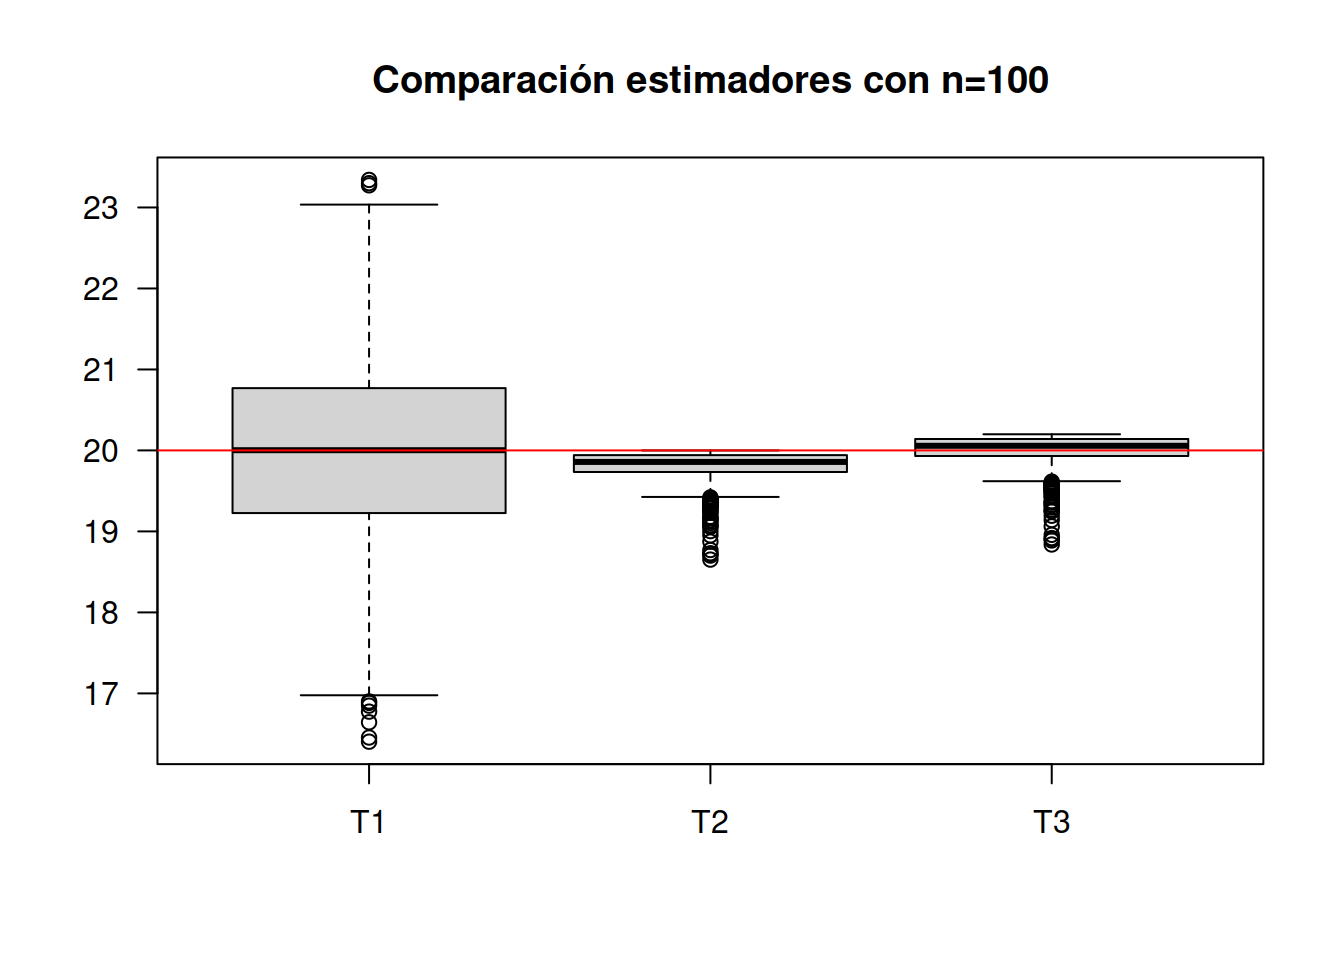
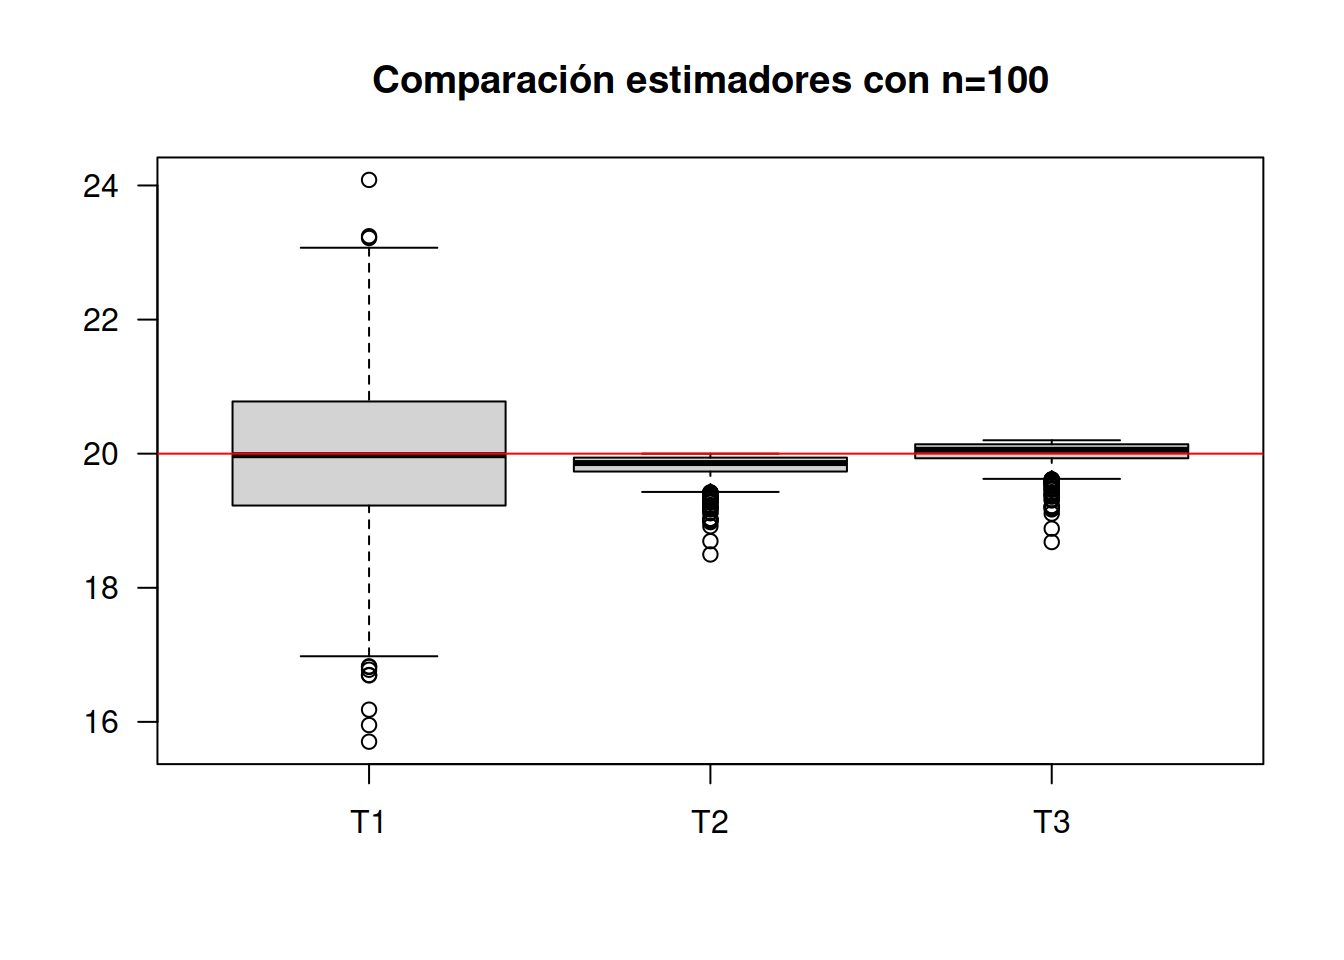
ajustes varios

diff --git a/docs/recurso336.html b/docs/recurso336.html
@@ -367,7 +367,139 @@ $(document).ready(function () {
 </div>
 
 
+<div id="prueba-de-signos" class="section level1">
+<h1><strong>Prueba de signos</strong></h1>
+<pre class="r"><code># install.packages(&quot;BSDA&quot;)
+library(BSDA)
 
+# Ho: Me &lt;= 15  
+# Ha: Me &gt;  15
+x=c(16, 15, 12, 17, 18, 14, 16, 14, 16, 17, 19, 16, 14, 21, 20, 16, 16, 16)
+#   +       -   +    +   -   +  -    +   +  +    +   -  +    +  +    +   +
+SIGN.test(x, md = 15,alternative = &quot;greater&quot;)</code></pre>
+<pre><code>
+    One-sample Sign-Test
+
+data:  x
+s = 13, p-value = 0.02452
+alternative hypothesis: true median is greater than 15
+95 percent confidence interval:
+  16 Inf
+sample estimates:
+median of x 
+         16 
+
+Achieved and Interpolated Confidence Intervals: 
+
+                  Conf.Level L.E.pt U.E.pt
+Lower Achieved CI     0.8811     16    Inf
+Interpolated CI       0.9500     16    Inf
+Upper Achieved CI     0.9519     16    Inf</code></pre>
+</div>
+<div id="prueba-de-rachas" class="section level1">
+<h1>Prueba de rachas</h1>
+<p>Ho : muestra aleatorio Ha: muestra no aleratoria</p>
+<pre class="r"><code>library(&quot;randtests&quot;)
+
+x=c(16, 15, 12, 17, 18, 14, 16, 14, 16, 17, 19, 16, 14, 21, 20, 16, 16, 16)
+runs.test(x)</code></pre>
+<pre><code>
+    Runs Test
+
+data:  x
+statistic = -0.29161, runs = 6, n1 = 6, n2 = 5, n = 11, p-value =
+0.7706
+alternative hypothesis: nonrandomness</code></pre>
+<p>Como el valor-p &gt; alpha (0.05), entonces no rechazamos Ho.
+Asumimos que la muestra es aleatoria.</p>
+</div>
+<div id="prueba-chicuadrado-de-independencia" class="section level1">
+<h1><strong>Prueba chicuadrado de independencia</strong></h1>
+<table>
+<thead>
+<tr class="header">
+<th align="left"></th>
+<th align="right">Urbano</th>
+<th align="right">Rural</th>
+<th align="right">Total</th>
+</tr>
+</thead>
+<tbody>
+<tr class="odd">
+<td align="left">Calificación</td>
+<td align="right"></td>
+<td align="right"></td>
+<td align="right"></td>
+</tr>
+<tr class="even">
+<td align="left">Bueno</td>
+<td align="right">20</td>
+<td align="right">11</td>
+<td align="right">31</td>
+</tr>
+<tr class="odd">
+<td align="left">Regular</td>
+<td align="right">40</td>
+<td align="right">8</td>
+<td align="right">18</td>
+</tr>
+<tr class="even">
+<td align="left">Malo</td>
+<td align="right">15</td>
+<td align="right">6</td>
+<td align="right">21</td>
+</tr>
+<tr class="odd">
+<td align="left">Total</td>
+<td align="right">75</td>
+<td align="right">25</td>
+<td align="right">100</td>
+</tr>
+</tbody>
+</table>
+<p>Ho : Lugar de residencia es independiente de la calificación Ha : las
+variables no son independientes</p>
+<pre class="r"><code>m=c(20,40,15,11,8,6)
+m=as.table(matrix(m,nrow=3))
+rownames(m)=c(&quot;Bueno&quot;, &quot;Regular&quot;, &quot;Malo&quot;)
+colnames(m)=c(&quot;Urbano&quot;, &quot;Rural&quot;)
+m</code></pre>
+<pre><code>        Urbano Rural
+Bueno       20    11
+Regular     40     8
+Malo        15     6</code></pre>
+<pre class="r"><code>chisq.test(m)</code></pre>
+<pre><code>
+    Pearson&#39;s Chi-squared test
+
+data:  m
+X-squared = 3.7378, df = 2, p-value = 0.1543</code></pre>
+<p><span class="math inline">\(\alpha = 0.05\)</span></p>
+<p>Como valor-p = 0.1543 &gt; 0.05 = a , entonces no se rechaza Ho.</p>
+<p>Asumimos que las variables residencia y calificación son
+independientes</p>
+</div>
+<div id="prueba-chi-cuadrado-de-bondad-de-ajuste"
+class="section level1">
+<h1><strong>Prueba chi-cuadrado de bondad de ajuste</strong></h1>
+<p>Ho: X sigue una determinadas distribución (Ej. uniforme) Ha: X no
+sigue el modelo seleccionado</p>
+<pre class="r"><code>obs=c(33,22,21,24)
+sum(obs)</code></pre>
+<pre><code>[1] 100</code></pre>
+<pre class="r"><code>esp=c(0.25,0.25,0.25,0.25)
+chisq.test(x=obs, p=esp)</code></pre>
+<pre><code>
+    Chi-squared test for given probabilities
+
+data:  obs
+X-squared = 3.6, df = 3, p-value = 0.308</code></pre>
+</div>
+<div id="prueba-kruskal-walis" class="section level1">
+<h1><strong>Prueba Kruskal Walis</strong></h1>
+<p>p-value = 0.308 , indica que no se rechaza Ho, es decir que la
+distribución en el uso de los porta-objetos es uniforme</p>
+</div>
 
 
 

diff --git a/docs/index.html b/docs/index.html
@@ -351,20 +351,20 @@ $(document).ready(function () {
 
 <h1 class="title toc-ignore"><span style="color:#034a94">
 <strong>SEMINARIO</strong></span></h1>
+<h3 class="subtitle"><span style="color:#4C626A"> <strong>ANÁLISIS DE
+TENDENCIAS PARA MÉTODOS CUANTITATIVOS Y
+CUALITATIVOS</strong></span></h3>
 <h4 class="author">Pontificia Universidad Javeriana Cali</h4>
 
 </div>
 
 
 <p><br/><br/></p>
-<div
-id="análisis-de-tendencias-para-métodos-cuantitativos-y-cualitativos"
-class="section level3">
-<h3><strong>ANÁLISIS DE TENDENCIAS PARA MÉTODOS CUANTITATIVOS Y
-CUALITATIVOS</strong></h3>
+<div id="section" class="section level3">
+<h3></h3>
 <p><br/></p>
-<div id="valida-tus-datos" class="section level4">
-<h4><strong>VALIDA TUS DATOS</strong></h4>
+<div id="unidad-1-valida-tus-datos" class="section level4">
+<h4><strong>UNIDAD 1 :VALIDA TUS DATOS</strong></h4>
 <p><br/></p>
 <ul>
 <li>Introducción a la calidad de la información</li>
@@ -374,8 +374,8 @@ CUALITATIVOS</strong></h3>
 </ul>
 <p><br/><br/></p>
 </div>
-<div id="control-interno" class="section level4">
-<h4><strong>CONTROL INTERNO</strong></h4>
+<div id="unidad-2-control-interno" class="section level4">
+<h4><strong>UNIDAD 2: CONTROL INTERNO</strong></h4>
 <p><br/></p>
 <ul>
 <li>Conceptos básicos: indicadores de posición, centro, dispersión y
@@ -393,8 +393,8 @@ muestral.</li>
 </ul>
 <p><br/><br/></p>
 </div>
-<div id="generaliza-los-resultados" class="section level4">
-<h4><strong>GENERALIZA LOS RESULTADOS</strong></h4>
+<div id="unidad-3-generaliza-los-resultados" class="section level4">
+<h4><strong>UNIDAD 3: GENERALIZA LOS RESULTADOS</strong></h4>
 <p><br/></p>
 <ul>
 <li>Estimación puntual y por intervalos de confianza</li>
@@ -411,8 +411,9 @@ muestral.</li>
 </ul>
 <p><br/><br/></p>
 </div>
-<div id="interpreta-y-presenta-tus-resultados" class="section level4">
-<h4><strong>INTERPRETA Y PRESENTA TUS RESULTADOS</strong></h4>
+<div id="unidad-4-interpreta-y-presenta-tus-resultados"
+class="section level4">
+<h4><strong>UNIDAD 4: INTERPRETA Y PRESENTA TUS RESULTADOS</strong></h4>
 <p><br/></p>
 <ul>
 <li>Análisis y discusión de resultados científicos</li>

diff --git a/docs/recurso331.html b/docs/recurso331.html
@@ -688,7 +688,7 @@ abline(h=20,  col=&quot;red&quot;)</code></pre>
 <p><img src="recurso331_files/figure-html/unnamed-chunk-4-1.png" width="672" /></p>
 <pre class="r"><code>apply(T123,2,mean)</code></pre>
 <pre><code>      T1       T2       T3 
-19.92273 18.13766 19.95143 </code></pre>
+19.95662 18.03964 19.84360 </code></pre>
 <p><br/><br/></p>
 <p>Para un tamaño de muestra <span class="math inline">\(n=10\)</span>
 se observa que los mejores resultados se obtienen con <span
@@ -710,7 +710,7 @@ abline(h=20,  col=&quot;red&quot;)</code></pre>
 <p><img src="recurso331_files/figure-html/unnamed-chunk-5-1.png" width="672" /></p>
 <pre class="r"><code>apply(T123,2,mean)</code></pre>
 <pre><code>      T1       T2       T3 
-19.99545 19.80471 20.00276 </code></pre>
+19.98367 19.80474 20.00279 </code></pre>
 <p>Los resutados indican que el mejor estimador de <span
 class="math inline">\(b\)</span> corresponde a <span
 class="math inline">\(T3\)</span>. Sin embargo el estimador <span

diff --git a/docs/recurso335.html b/docs/recurso335.html
@@ -466,7 +466,9 @@ data &lt;- data.frame(
   Niveles_Benzodiazepina = c(grupo1, grupo2, grupo3)
 )
 
-# Realizar un ANOVA
+boxplot(grupos)</code></pre>
+<p><img src="recurso335_files/figure-html/unnamed-chunk-3-1.png" width="672" /></p>
+<pre class="r"><code># Realizar un ANOVA
 modelo_anova &lt;- aov(Niveles_Benzodiazepina ~ Grupo, data = data)
 
 # Mostrar los resultados del ANOVA
@@ -491,6 +493,9 @@ $Grupo
 2-1 -0.0710 -0.08327658 -0.05872342 0.0e+00
 3-1 -0.0265 -0.03877658 -0.01422342 8.5e-06
 3-2  0.0445  0.03222342  0.05677658 0.0e+00</code></pre>
+<pre class="r"><code>apply(grupos, 2, mean)</code></pre>
+<pre><code>grupo1 grupo2 grupo3 
+0.1150 0.0440 0.0885 </code></pre>
 </div>
 </div>
 
